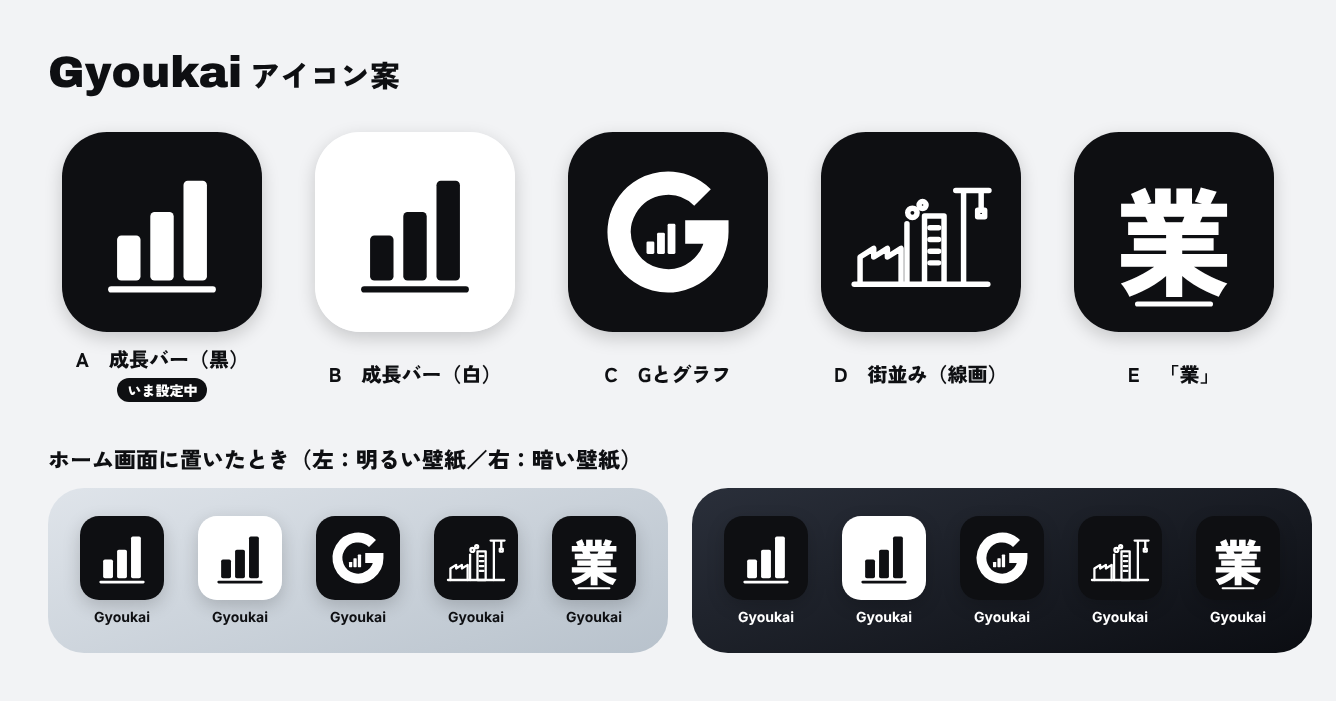
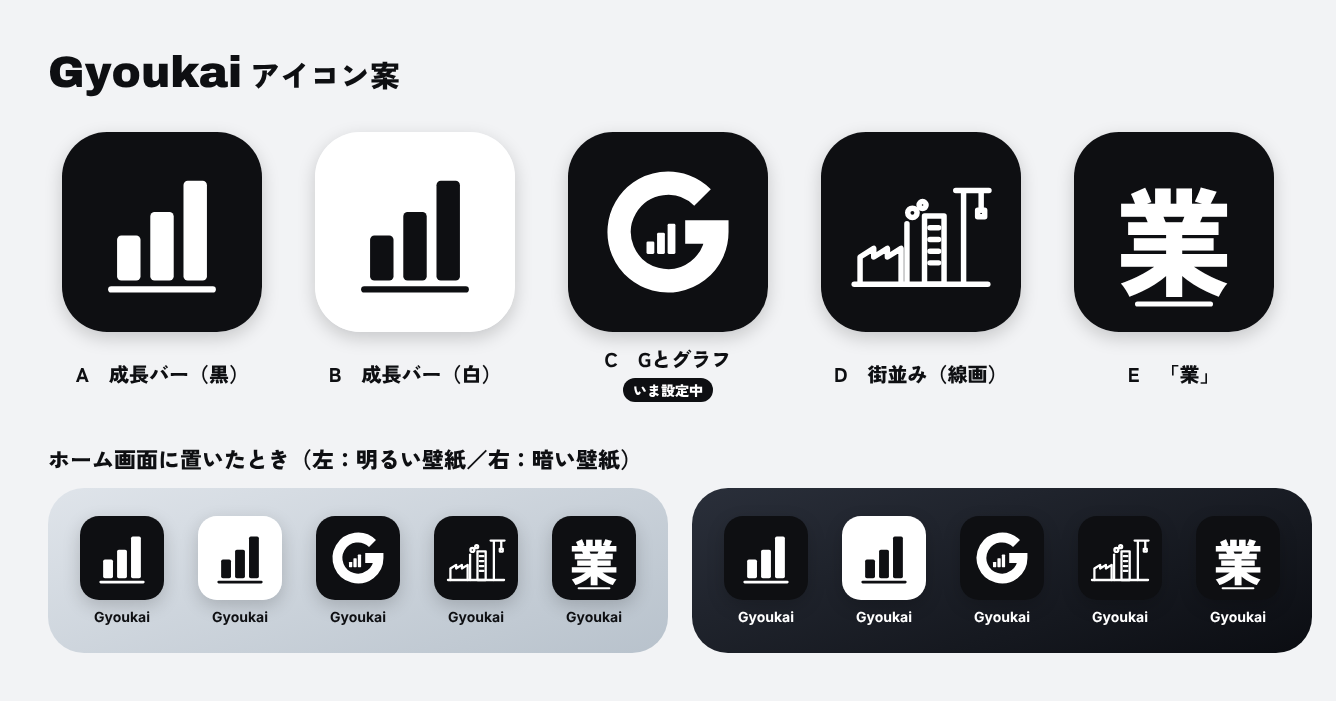
アイコンをC（Gとグラフ）に変更し、起動アニメーションもGの形に合わせる
Claude-Session: https://claude.ai/code/session_01Lk6doJXyn6srVnLWfbDiwt

Changed region(s): [[0.0614, 0.4793, 0.1841, 0.5991], [0.4296, 0.4793, 0.5524, 0.5991]]

diff --git a/index.html b/index.html
@@ -492,14 +492,14 @@ table.fin .yoy { display: block; font-size: 10.5px; font-weight: 500; }
 .splash { position: fixed; inset: 0; z-index: 200; background: #0e0f12; color: #fff; display: grid; place-content: center; justify-items: center; gap: 14px; transition: transform .75s cubic-bezier(.7, 0, .2, 1); will-change: transform; }
 .splash.out { transform: translateY(-100%); }
 .splash svg { width: 112px; height: 112px; overflow: visible; }
-.splash .bar { transform-box: fill-box; transform-origin: 50% 100%; animation: sp-grow .55s cubic-bezier(.2, .9, .25, 1.15) both; }
-.splash .b2 { animation-delay: .12s; } .splash .b3 { animation-delay: .24s; }
-.splash .base { stroke-dasharray: 520; animation: sp-draw .45s ease-out both; }
+.splash .gmark { stroke-dasharray: 1600; animation: sp-draw .7s cubic-bezier(.6, 0, .2, 1) both; }
+.splash .bar { transform-box: fill-box; transform-origin: 50% 100%; animation: sp-grow .45s cubic-bezier(.2, .9, .25, 1.2) both; }
+.splash .b1 { animation-delay: .45s; } .splash .b2 { animation-delay: .55s; } .splash .b3 { animation-delay: .65s; }
 .splash .word { font-family: var(--font-display); font-weight: 900; font-size: 44px; letter-spacing: -0.03em; display: flex; }
 .splash .word span { display: inline-block; animation: sp-rise .5s cubic-bezier(.2, .8, .2, 1) both; }
-.splash .sp-tag { font-weight: 700; font-size: 14px; color: #a7abb3; animation: sp-fade .5s ease-out .95s both; }
+.splash .sp-tag { font-weight: 700; font-size: 14px; color: #a7abb3; animation: sp-fade .5s ease-out 1.05s both; }
 @keyframes sp-grow { from { transform: scaleY(0); } }
-@keyframes sp-draw { from { stroke-dashoffset: 520; } }
+@keyframes sp-draw { from { stroke-dashoffset: 1600; } }
 @keyframes sp-rise { from { transform: translateY(18px); opacity: 0; } }
 @keyframes sp-fade { from { opacity: 0; } }
 /* the home screen settles in as the curtain lifts */
@@ -519,7 +519,7 @@ table.fin .yoy { display: block; font-size: 10.5px; font-weight: 500; }
 </head>
 <body>
 <div class="splash" id="splash" aria-hidden="true">
-  <svg viewBox="0 0 1024 1024"><rect class="bar b1" x="282" y="530" width="120" height="230" rx="22" fill="#fff"/><rect class="bar b2" x="452" y="410" width="120" height="350" rx="22" fill="#fff"/><rect class="bar b3" x="622" y="250" width="120" height="510" rx="22" fill="#fff"/><path class="base" d="M252 806H772" stroke="#fff" stroke-width="32" stroke-linecap="round"/></svg>
+  <svg viewBox="0 0 1024 1024"><path class="gmark" d="M688.8 335.2A250 250 0 1 0 762 512H600" fill="none" stroke="#fff" stroke-width="120" stroke-linejoin="miter"/><rect class="bar b1" x="402" y="560" width="40" height="64" rx="7" fill="#fff"/><rect class="bar b2" x="456" y="516" width="40" height="108" rx="7" fill="#fff"/><rect class="bar b3" x="510" y="470" width="40" height="154" rx="7" fill="#fff"/></svg>
   <div class="word">Gyoukai</div>
   <div class="sp-tag">決算で、業界を読む。</div>
 </div>
@@ -527,7 +527,7 @@ table.fin .yoy { display: block; font-size: 10.5px; font-weight: 500; }
 (function () {
   var sp = document.getElementById("splash"), t0 = Date.now(), done = false;
   var word = sp.querySelector(".word");
-  word.innerHTML = "Gyoukai".split("").map(function (c, i) { return '<span style="animation-delay:' + (0.42 + i * 0.05).toFixed(2) + 's">' + c + "</span>"; }).join("");
+  word.innerHTML = "Gyoukai".split("").map(function (c, i) { return '<span style="animation-delay:' + (0.6 + i * 0.05).toFixed(2) + 's">' + c + "</span>"; }).join("");
   var quick = false;
   try { quick = !!sessionStorage.getItem("gyoukai.splashed") || /[?&]article=/.test(location.search); sessionStorage.setItem("gyoukai.splashed", "1"); } catch (e) {}
   function finish() {
@@ -539,7 +539,7 @@ table.fin .yoy { display: block; font-size: 10.5px; font-weight: 500; }
   if (quick) { sp.remove(); return; }  // 同じセッションで再読み込みしたときは出さない
   sp.addEventListener("click", finish);
   // 最低1.5秒見せ、アプリの準備ができたら幕を上げる（最大6秒）
-  document.addEventListener("DOMContentLoaded", function () { setTimeout(finish, Math.max(150, 1500 - (Date.now() - t0))); });
+  document.addEventListener("DOMContentLoaded", function () { setTimeout(finish, Math.max(150, 1650 - (Date.now() - t0))); });
   setTimeout(finish, 6000);
 })();
 </script>
@@ -955,13 +955,13 @@ function renderHome() {
 }
 
 /* ============ app icon (applied to the home-screen icon the next time it is added) ============ */
-const ICON_CHOICES = [["a-bars", "成長バー"], ["b-bars-light", "白"], ["c-g", "G"], ["d-city", "街並み"], ["e-kanji", "業"]];
+const ICON_CHOICES = [["c-g", "G"], ["a-bars", "成長バー"], ["b-bars-light", "白"], ["d-city", "街並み"], ["e-kanji", "業"]];
 function applyIcon(id) {
-  const ok = ICON_CHOICES.some(c => c[0] === id) ? id : "a-bars";
-  $("#touchIcon").href = ok === "a-bars" ? "icons/apple-touch-icon.png" : `icons/${ok}-180.png`;
+  const ok = ICON_CHOICES.some(c => c[0] === id) ? id : "c-g";
+  $("#touchIcon").href = ok === "c-g" ? "icons/apple-touch-icon.png" : `icons/${ok}-180.png`;
   return ok;
 }
-let iconChoice = applyIcon(store.get("icon", "a-bars"));
+let iconChoice = applyIcon(store.get("icon", "c-g"));
 function renderIconOpts() {
   $("#iconOpts").innerHTML = ICON_CHOICES.map(([id, label]) => `<button aria-pressed="${id === iconChoice}" data-icon-id="${id}"><img src="icons/${id}-180.png" alt="">${esc(label)}</button>`).join("");
 }

diff --git a/README.md b/README.md
@@ -27,9 +27,9 @@
 
 ## アイコンと起動アニメーション
 
-- アイコン案は `icons/` にあります（一覧：`icons/proposals.png`）。A 成長バー（黒）が標準で、メニューの「アプリのアイコン」で A〜E を選べます。選んだあとにホーム画面に追加し直すと反映されます。
+- アイコン案は `icons/` にあります（一覧：`icons/proposals.png`）。C（Gとグラフ）が標準で、メニューの「アプリのアイコン」で A〜E を選べます。選んだあとにホーム画面に追加し直すと反映されます。
 - `icons/*.svg` が元データで、PNG（180・192・512・32px）はそこから書き出しています。`manifest.webmanifest` でホーム画面アプリとしての名前・色・アイコンを指定しています。
-- 開いたときに、棒グラフが伸びて「Gyoukai」の文字が浮き上がり、黒い幕が上に抜けてホームが現れます（約1.5秒、タップで飛ばせる、同じセッションでの再読み込みでは出ない、「視差効果を減らす」設定ではフェードのみ）。
+- 開いたときに、アイコンのGが描かれて中の棒グラフが伸び、「Gyoukai」の文字が浮き上がり、黒い幕が上に抜けてホームが現れます（約1.7秒、タップで飛ばせる、同じセッションでの再読み込みでは出ない、「視差効果を減らす」設定ではフェードのみ）。
 
 ## データ
 
